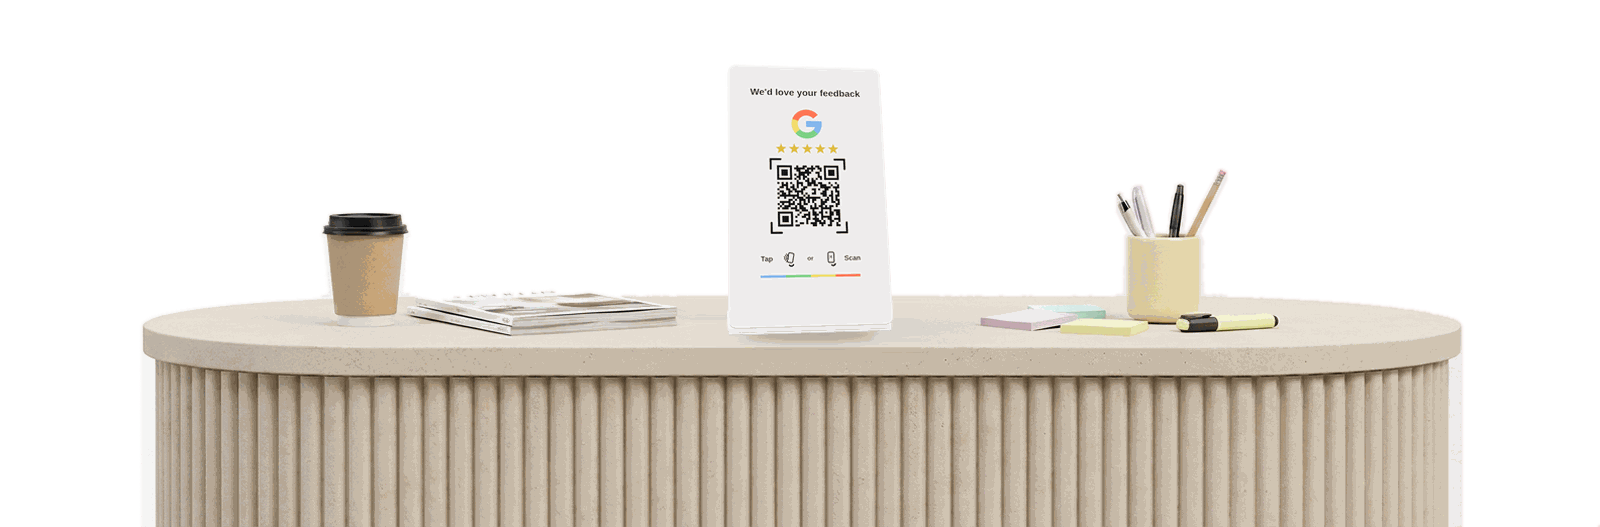
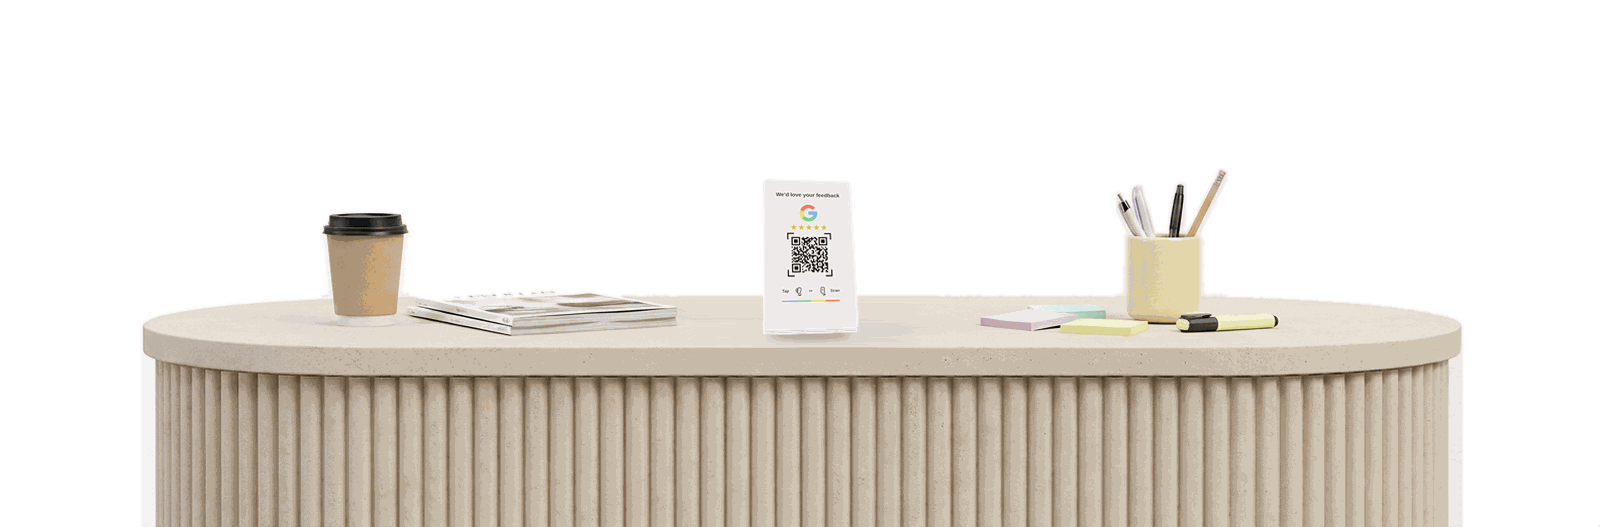
Hero: drie platforms in kleur, ware grootte van de standaard, en voorbeeldquotes per branche

Changed region(s): [[0.4375, 0.2125, 0.5625, 0.6679], [0.4688, 0.1518, 0.5312, 0.1822]]

diff --git a/webshop/clone/index.html b/webshop/clone/index.html
@@ -70,20 +70,13 @@
             <svg width="19" height="19" viewBox="0 0 24 24"><path fill="#4285F4" d="M23 12.3c0-.8-.1-1.6-.2-2.3H12v4.5h6.2a5.3 5.3 0 0 1-2.3 3.5v2.9h3.7c2.2-2 3.4-5 3.4-8.6z"/><path fill="#34A853" d="M12 23.5c3.1 0 5.7-1 7.6-2.8l-3.7-2.9c-1 .7-2.3 1.1-3.9 1.1-3 0-5.5-2-6.4-4.7H1.8v3a11.5 11.5 0 0 0 10.2 6.3z"/><path fill="#FBBC05" d="M5.6 14.2a6.9 6.9 0 0 1 0-4.4v-3H1.8a11.5 11.5 0 0 0 0 10.4l3.8-3z"/><path fill="#EA4335" d="M12 5.1c1.7 0 3.2.6 4.4 1.7l3.3-3.3A11.5 11.5 0 0 0 1.8 6.8l3.8 3c.9-2.7 3.4-4.7 6.4-4.7z"/></svg>
           </button>
           <button type="button" role="tab" aria-selected="false" title="Instagram" data-plat="instagram">
-            <svg width="19" height="19" viewBox="0 0 24 24" fill="none" stroke="currentColor" stroke-width="2"><rect x="3" y="3" width="18" height="18" rx="5.5"/><circle cx="12" cy="12" r="4"/><circle cx="17.5" cy="6.5" r="1.2" fill="currentColor" stroke="none"/></svg>
+            <svg width="19" height="19" viewBox="0 0 24 24"><defs><linearGradient id="igc" x1="0" y1="1" x2="1" y2="0"><stop offset="0" stop-color="#FEDA75"/><stop offset=".28" stop-color="#FA7E1E"/><stop offset=".6" stop-color="#D62976"/><stop offset=".85" stop-color="#962FBF"/><stop offset="1" stop-color="#4F5BD5"/></linearGradient></defs><rect x="2" y="2" width="20" height="20" rx="6" fill="url(#igc)"/><circle cx="12" cy="12" r="4.4" fill="none" stroke="#fff" stroke-width="1.9"/><circle cx="17.4" cy="6.6" r="1.25" fill="#fff"/></svg>
           </button>
           <button type="button" role="tab" aria-selected="false" title="Facebook" data-plat="facebook">
-            <svg width="19" height="19" viewBox="0 0 24 24" fill="currentColor"><path d="M22 12a10 10 0 1 0-11.6 9.9v-7H7.9V12h2.5V9.8c0-2.5 1.5-3.9 3.8-3.9 1.1 0 2.2.2 2.2.2v2.5h-1.3c-1.2 0-1.6.8-1.6 1.6V12h2.8l-.4 2.9h-2.4v7A10 10 0 0 0 22 12z"/></svg>
-          </button>
-          <button type="button" role="tab" aria-selected="false" title="Sticker" data-plat="sticker">
-            <svg width="19" height="19" viewBox="0 0 24 24" fill="none" stroke="currentColor" stroke-width="2" stroke-dasharray="3 2.6"><rect x="3.5" y="3.5" width="17" height="17" rx="4"/></svg>
+            <svg width="19" height="19" viewBox="0 0 24 24"><circle cx="12" cy="12" r="10" fill="#1877F2"/><path fill="#fff" d="M15.6 15.1 16 12h-3v-2c0-.9.4-1.7 1.8-1.7H16V5.6s-1.2-.2-2.3-.2c-2.4 0-3.9 1.4-3.9 4V12H7v3.1h2.8V22a10 10 0 0 0 3.2 0v-6.9h2.6z"/></svg>
           </button>
         </div>
 
-        <div class="seg tabs" role="tablist" aria-label="Uitvoering" data-tk3-colors>
-          <button type="button" role="tab" aria-selected="true" data-color="wit">Wit</button>
-          <button type="button" role="tab" aria-selected="false" data-color="zwart">Zwart</button>
-        </div>
 
         <a class="buy" href="#producten" data-tk3-buy>Kopen
           <svg width="16" height="16" viewBox="0 0 24 24" fill="none" stroke="currentColor" stroke-width="2.4" stroke-linecap="round" stroke-linejoin="round"><path d="M5 12h14M13 6l6 6-6 6"/></svg>
@@ -93,10 +86,8 @@
 
     <div class="shots">
         <img data-shot="google-wit" class="on" src="img/tk3-hero-google-wit.png" alt="Google Review-standaard wit" width="1600" height="527">
-        <img data-shot="google-zwart" src="img/tk3-hero-google-zwart.png" alt="Google Review-standaard zwart" width="1600" height="527">
         <img data-shot="instagram" src="img/tk3-hero-instagram.png" alt="Instagram-standaard" width="1600" height="527">
         <img data-shot="facebook" src="img/tk3-hero-facebook.png" alt="Facebook-standaard" width="1600" height="527">
-        <img data-shot="sticker" src="img/tk3-hero-sticker.png" alt="Google Review-sticker" width="1600" height="527">
     </div>
   </div>
 </section>
@@ -191,8 +182,8 @@
     <div class="usecase">
       <img src="img/cafe.png" alt="Klant tikt telefoon tegen de standaard op een cafébalie">
       <div>
-        <blockquote>[PLAATSHOUDER — hier komt een echte quote van een klant. Vraag om één zin over wat het opleverde, plus toestemming om de zaaknaam te noemen.]</blockquote>
-        <div class="who">Naam achternaam<br>Functie, Zaaknaam</div>
+        <blockquote>We vroegen er nooit om — dat voelde ongemakkelijk. Nu staat het bordje naast de kassa en vraagt het voor ons, elke dag opnieuw.</blockquote>
+        <div class="who">Sanne de Wit, eigenaar · Koffiebar Noord · voorbeeldtekst</div>
       </div>
     </div>
   </div>

diff --git a/webshop/clone/tk3.js b/webshop/clone/tk3.js
@@ -36,13 +36,11 @@
     if (hero.dataset.tk3Bound) return;
     hero.dataset.tk3Bound = '1';
 
-    var colorSeg = hero.querySelector('[data-tk3-colors]');
     var buy = hero.querySelector('[data-tk3-buy]');
     var plat = 'google';
-    var col = 'wit';
 
     function apply() {
-      var key = plat === 'google' ? 'google-' + col : plat;
+      var key = plat === 'google' ? 'google-wit' : plat;
       var found = false;
       hero.querySelectorAll('[data-shot]').forEach(function (img) {
         var on = img.getAttribute('data-shot') === key;
@@ -55,10 +53,6 @@
         if (first) first.classList.add('on');
       }
       hero.style.background = GRAD[key] || GRAD['google-wit'];
-      if (colorSeg) {
-        if (plat === 'google') colorSeg.removeAttribute('data-tk3-disabled');
-        else colorSeg.setAttribute('data-tk3-disabled', '');
-      }
       var btn = hero.querySelector('[data-plat="' + plat + '"]');
       if (buy && btn && btn.getAttribute('data-url')) buy.href = btn.getAttribute('data-url');
     }
@@ -66,10 +60,6 @@
     hero.querySelectorAll('[data-plat]').forEach(function (b) {
       b.addEventListener('click', function () { plat = b.getAttribute('data-plat'); apply(); });
     });
-    hero.querySelectorAll('[data-color]').forEach(function (b) {
-      b.addEventListener('click', function () { col = b.getAttribute('data-color'); apply(); });
-    });
-
     apply();
   }
 

diff --git a/webshop/theme3/assets/tk3.js b/webshop/theme3/assets/tk3.js
@@ -36,13 +36,11 @@
     if (hero.dataset.tk3Bound) return;
     hero.dataset.tk3Bound = '1';
 
-    var colorSeg = hero.querySelector('[data-tk3-colors]');
     var buy = hero.querySelector('[data-tk3-buy]');
     var plat = 'google';
-    var col = 'wit';
 
     function apply() {
-      var key = plat === 'google' ? 'google-' + col : plat;
+      var key = plat === 'google' ? 'google-wit' : plat;
       var found = false;
       hero.querySelectorAll('[data-shot]').forEach(function (img) {
         var on = img.getAttribute('data-shot') === key;
@@ -55,10 +53,6 @@
         if (first) first.classList.add('on');
       }
       hero.style.background = GRAD[key] || GRAD['google-wit'];
-      if (colorSeg) {
-        if (plat === 'google') colorSeg.removeAttribute('data-tk3-disabled');
-        else colorSeg.setAttribute('data-tk3-disabled', '');
-      }
       var btn = hero.querySelector('[data-plat="' + plat + '"]');
       if (buy && btn && btn.getAttribute('data-url')) buy.href = btn.getAttribute('data-url');
     }
@@ -66,10 +60,6 @@
     hero.querySelectorAll('[data-plat]').forEach(function (b) {
       b.addEventListener('click', function () { plat = b.getAttribute('data-plat'); apply(); });
     });
-    hero.querySelectorAll('[data-color]').forEach(function (b) {
-      b.addEventListener('click', function () { col = b.getAttribute('data-color'); apply(); });
-    });
-
     apply();
   }
 

diff --git a/webshop/clone/style.css b/webshop/clone/style.css
@@ -117,6 +117,9 @@ footer .brand img{height:29px}
 .seg.tabs button{border-radius:12.75px;padding:11px 21px}
 .hero .controls{display:flex;justify-content:center;gap:12px;flex-wrap:wrap;align-items:center}
 .seg[data-tk3-disabled]{opacity:.35;pointer-events:none}
+/* platformkeuze: het gekozen logo in kleur, de rest grijs */
+.hero .seg button svg{filter:grayscale(1);opacity:.45;transition:filter .2s,opacity .2s}
+.hero .seg button[aria-selected="true"] svg{filter:none;opacity:1}
 .buy{background:rgba(26,26,26,.1);border-radius:9999px;padding:11px 20px;font-size:var(--fs-sm);
   font-weight:750;display:inline-flex;align-items:center;gap:9px;transition:background .18s}
 .buy:hover{background:rgba(26,26,26,.18)}

diff --git a/webshop/theme3/assets/tk3.css b/webshop/theme3/assets/tk3.css
@@ -95,6 +95,8 @@ html,body{overflow-x:clip}
 .tk3 .seg.tabs button{border-radius:12.75px;padding:11px 21px}
 .tk3 .hero .controls{display:flex;justify-content:center;gap:12px;flex-wrap:wrap;align-items:center}
 .tk3 .seg[data-tk3-disabled]{opacity:.35;pointer-events:none}
+.tk3 .hero .seg button svg{filter:grayscale(1);opacity:.45;transition:filter .2s,opacity .2s}
+.tk3 .hero .seg button[aria-selected="true"] svg{filter:none;opacity:1}
 .tk3 .buy{background:rgba(26,26,26,.1);border-radius:9999px;padding:11px 20px;font-size:var(--fs-sm);
   font-weight:750;display:inline-flex;align-items:center;gap:9px;transition:background .18s}
 .tk3 .buy:hover{background:rgba(26,26,26,.18)}

diff --git a/webshop/theme3/hero-montage.py b/webshop/theme3/hero-montage.py
@@ -1,15 +1,30 @@
 """Monteert per uitvoering het bordje in dezelfde balie-foto.
 
 De balie, de koffie, de tijdschriften en het pennenbakje blijven exact wat ze
-waren; alleen het bordje en zijn contactschaduw worden vervangen.
+waren; alleen het bordje en zijn contactschaduw worden vervangen. De plaat is
+de originele hero-foto met het oude bordje weggewerkt en de achtergrond
+uitgeknipt, zodat het sectieverloop van de pagina er doorheen komt.
+
+Draai eerst `node viewer/bord-run.mjs` voor de losse bordjes.
 """
 from PIL import Image, ImageDraw, ImageFilter
 import numpy as np
 
 S = '/tmp/claude-0/-home-user-Claude/4ed8d6d3-2641-5570-b485-c23a1aa27fe7/scratchpad/'
-plate = Image.open(S + 'plate.png').convert('RGB')
-TARGET_H, BOTTOM, CX = 268, 482, 802
+PLATE = S + 'plate-cut.png'
+OUT = 'webshop/theme3/assets/tk3-hero-%s.png'
+
+# Maatvoering op de koffiebeker: die is 138 px hoog voor ~11,5 cm, dus ~12 px/cm.
+# Een standaard van 12,75 cm die 12 graden achteroverleunt komt uit op ~155 px.
+# Zo klopt de verhouding met de spullen op de balie en lijkt het bordje niet groter
+# dan het is.
+TARGET_H, BOTTOM, CX = 155, 482, 802
+CROP = (0, 150, 1584, 672)
 KEYS = ['google-wit', 'google-zwart', 'instagram', 'facebook', 'sticker']
+
+plate = Image.open(PLATE).convert('RGBA')
+alpha = plate.split()[3]
+base = np.asarray(plate.convert('RGB')).astype(np.float32)
 
 for k in KEYS:
     src = Image.open(f'viewer/dist/bord/{k}.png').convert('RGBA')
@@ -17,22 +32,23 @@ for k in KEYS:
     h = TARGET_H if k != 'sticker' else round(TARGET_H * 0.62)
     b = b.resize((max(1, round(b.width * h / b.height)), h), Image.LANCZOS)
 
-    arr = np.asarray(plate).astype(np.float32)
-
     # smalle kernschaduw direct onder de voet
     m = Image.new('L', plate.size, 0)
     ImageDraw.Draw(m).ellipse(
-        [CX - b.width * 0.40, BOTTOM - 5, CX + b.width * 0.40, BOTTOM + 5], fill=255)
-    core = np.asarray(m.filter(ImageFilter.GaussianBlur(4))).astype(np.float32)[:, :, None] / 255
+        [CX - b.width * 0.42, BOTTOM - 4, CX + b.width * 0.42, BOTTOM + 4], fill=255)
+    core = np.asarray(m.filter(ImageFilter.GaussianBlur(3))).astype(np.float32)[:, :, None] / 255
 
     # brede, zachte aanzet naar rechts, in lijn met het licht van links
     m2 = Image.new('L', plate.size, 0)
     ImageDraw.Draw(m2).ellipse(
-        [CX - b.width * 0.55, BOTTOM - 9, CX + b.width * 1.15, BOTTOM + 9], fill=255)
-    soft = np.asarray(m2.filter(ImageFilter.GaussianBlur(13))).astype(np.float32)[:, :, None] / 255
+        [CX - b.width * 0.6, BOTTOM - 7, CX + b.width * 1.2, BOTTOM + 7], fill=255)
+    soft = np.asarray(m2.filter(ImageFilter.GaussianBlur(10))).astype(np.float32)[:, :, None] / 255
 
-    arr = arr * (1 - 0.22 * core) * (1 - 0.07 * soft)
-    out = Image.fromarray(arr.clip(0, 255).astype('uint8'))
+    rgb = base * (1 - 0.22 * core) * (1 - 0.07 * soft)
+    out = Image.merge('RGBA', (*Image.fromarray(rgb.clip(0, 255).astype('uint8')).split(), alpha))
     out.paste(b, (CX - b.width // 2, BOTTOM - h), b)
-    out.save(S + f'hero-{k}.png')
-    print('ok', k, b.size)
+
+    out = out.crop(CROP)
+    out = out.resize((1600, round(out.height * 1600 / out.width)), Image.LANCZOS)
+    out.quantize(colors=255, method=Image.FASTOCTREE).save(OUT % k, optimize=True)
+    print('ok', k, out.size)
